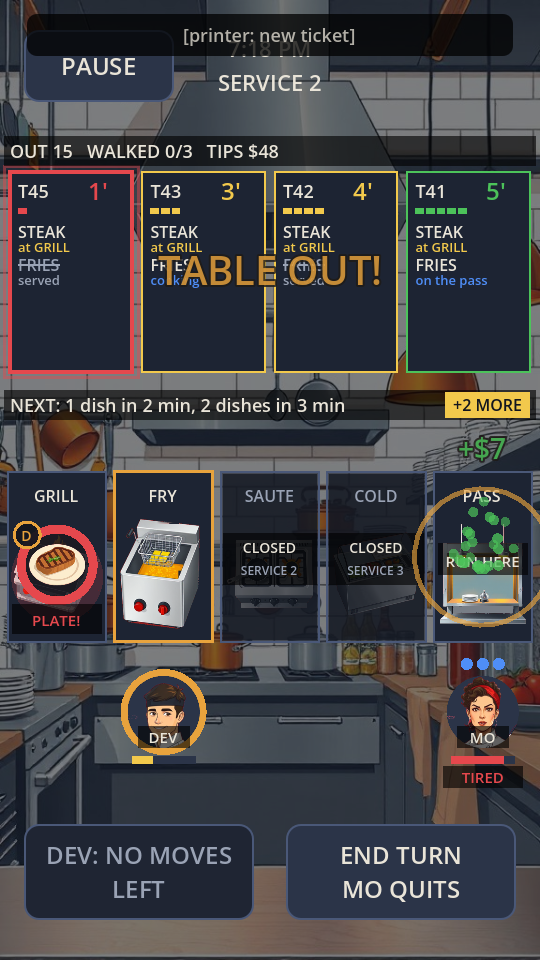
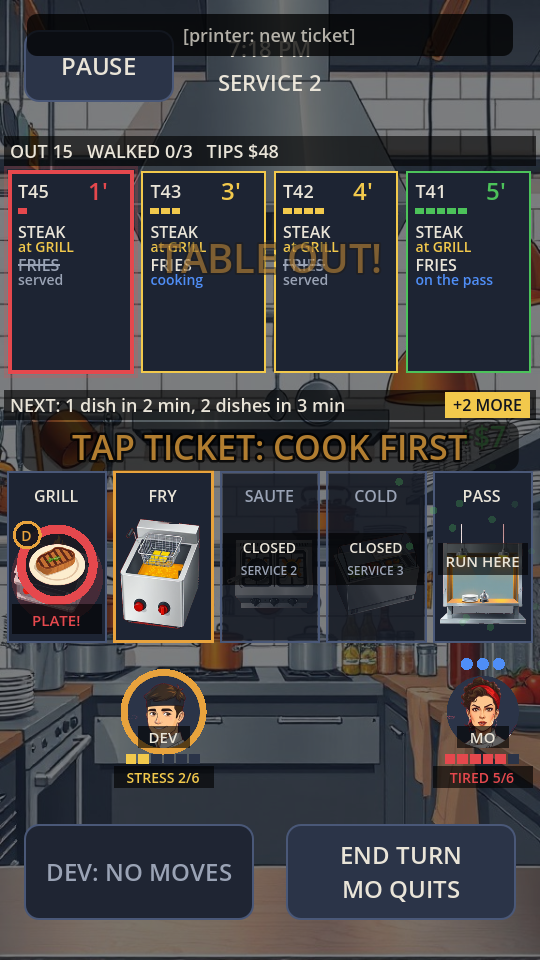
Blind review #3 fixes: stress meter, rail paging, quit-marker bug (#24)
* Real art, part 1: kitchen wall and the four stations

Forge renders in style A (flat ink), cut to transparent PNGs and cleaned
(key spill, a fake brand name on the fryer). The wall sits under a 55% dark
wash so text stays readable; text on art gets a dark plate. Every state a
player reads (pans, clocks, rings) is still drawn in code on top.

Claude-Session: https://claude.ai/code/session_01V3sbxLu4c4oLEvnvp25i9E

* Real art, part 2: cook portraits and dish icons

DEV and MO get round portrait tokens (name on a plate), each pan shows its
dish icon inside the state ring, and a carried plate rides on the cook's
shoulder. Pan state is still spelled out (2', UP!, BURN!) with a thicker ring
before a burn, so colour and art never carry it alone.

Claude-Session: https://claude.ai/code/session_01V3sbxLu4c4oLEvnvp25i9E

* Real art, part 3: fries reroll + art log

Claude-Session: https://claude.ai/code/session_01V3sbxLu4c4oLEvnvp25i9E

* Kitchen background: busy line wall, text on plates

Duff asked for a more kitchen-like background. New Forge take (hood,
hanging pans, heat lamps, stove line); status, NEXT, carried plate and
WALKED OUT text now sit on dark plates so they read over it. Pan text
names the dish on UP/BURN (fresh-eyes note from #7).

Claude-Session: https://claude.ai/code/session_01V3sbxLu4c4oLEvnvp25i9E

* Pan label fits at every text size; NEXT plate under the +N count

Fresh-eyes on #8: 'BURGER BURN!' spilled into the next station at text
[…]

diff --git a/CLAUDE.md b/CLAUDE.md
@@ -86,6 +86,12 @@ the handoff between sessions. Commands, standing rules, guards and layout: AGENT
   QUIT at their spot (the WALKED OUT line is gone); GAME OVER buttons wait 1 s; HOW TO PLAY says
   SCROLL FOR MORE until the end. POLISH PASS checks the quit warning and spent button, GAMEOVER PASS
   the tap guard, test_quit_warning_matches_end_turn the prediction against end_turn on random states.
+- Nov 26 blind review #3 (6.5/10: stress was how they lost and they barely saw it): a stress meter per
+  cook (one box per point to the cap + "STRESS 2/6" / "TIRED 5/6"), intro card 3 says cooks quit;
+  a QUIT marker never draws over a working cook; GAME OVER says a new night starts at service 1
+  (button NEW NIGHT); tap +N MORE to page the rail (`rail_off`, `_more_rect`; BACK returns);
+  bigger ticket/station text; Settings CONTROLS lists only `Controls.SHOWN` (pause); SHOP NEW! only
+  until opened. RAIL PAGE, SHOP NEW, GAMEOVER PASS.
 - Latest build: Releases -> `dev` -> `Rush.apk`.
 - Nov 24: Eyes (docs/EYES.md): a cloud session can run Rush, tap buttons, read the screen and
   screenshot it. `tools/eyes/smoke.json` plays a turn. Copied from the starter (Duff's OK).
